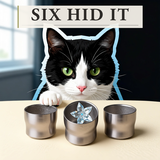
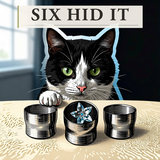
art: redraw poster in copperplate style

Changed region(s): [[0.0, 0.1562, 1.0, 1.0], [0.9375, 0.625, 0.9688, 0.6562]]

diff --git a/_production/finalize_poster.py b/_production/finalize_poster.py
@@ -4,7 +4,7 @@ from pathlib import Path
 from PIL import Image, ImageDraw, ImageFont
 
 ROOT = Path(__file__).resolve().parents[1]
-SOURCE = ROOT / "_production" / "poster-source-v2.webp"
+SOURCE = ROOT / "_production" / "poster-source-v3.webp"
 OUTPUT = ROOT / "public" / "poster.png"
 THUMB = ROOT / "_production" / "poster-thumb-160.png"
 FONT = Path("/Library/Fonts/AGaramondPro-Bold.otf")

diff --git a/doc/visual.md b/doc/visual.md
@@ -43,6 +43,7 @@
 - 角色模块：双耳、前层 V 型脸与蓝线标注的补形状统一使用同一个深棕色。实现上可由两个重叠路径构造，但视觉上必须完全融合为一整块剪纸，不允许接缝、投影或色差。补形状比第一版标注映射略窄、略高，避免横向过扁；前层下巴保留足够口鼻空间。
 - 游戏构图必须保持原始剪纸 SVG 的纵横比例，不得再通过 `scaleY` 等场景样式二次压扁猫头。猫头可整体等比放大，但下缘必须进入桌面后层而非漂浮在桌沿上方。
 - 官网头像与真实照片只作为黑白开脸、耳形和鼻色的身份锚点；游戏猫不直接使用照片。
+- 正式海报中的猫必须复刻官网头像的铜版蚀刻语言：黑色交叉排线、细密刻线毛发、暖象牙纸底和窄白色三角开脸；不得回退成光滑数码绘画、卡通描边或蓝色贴纸轮廓。海报中的杯子与桌面可用较轻的雕刻线条统一材质层级。
 - 产品摄影与猫版画不直接叠在同一空间；前者用于产品板，后者用于游戏世界和品牌签章。
 
 ## 7. UI and icons
